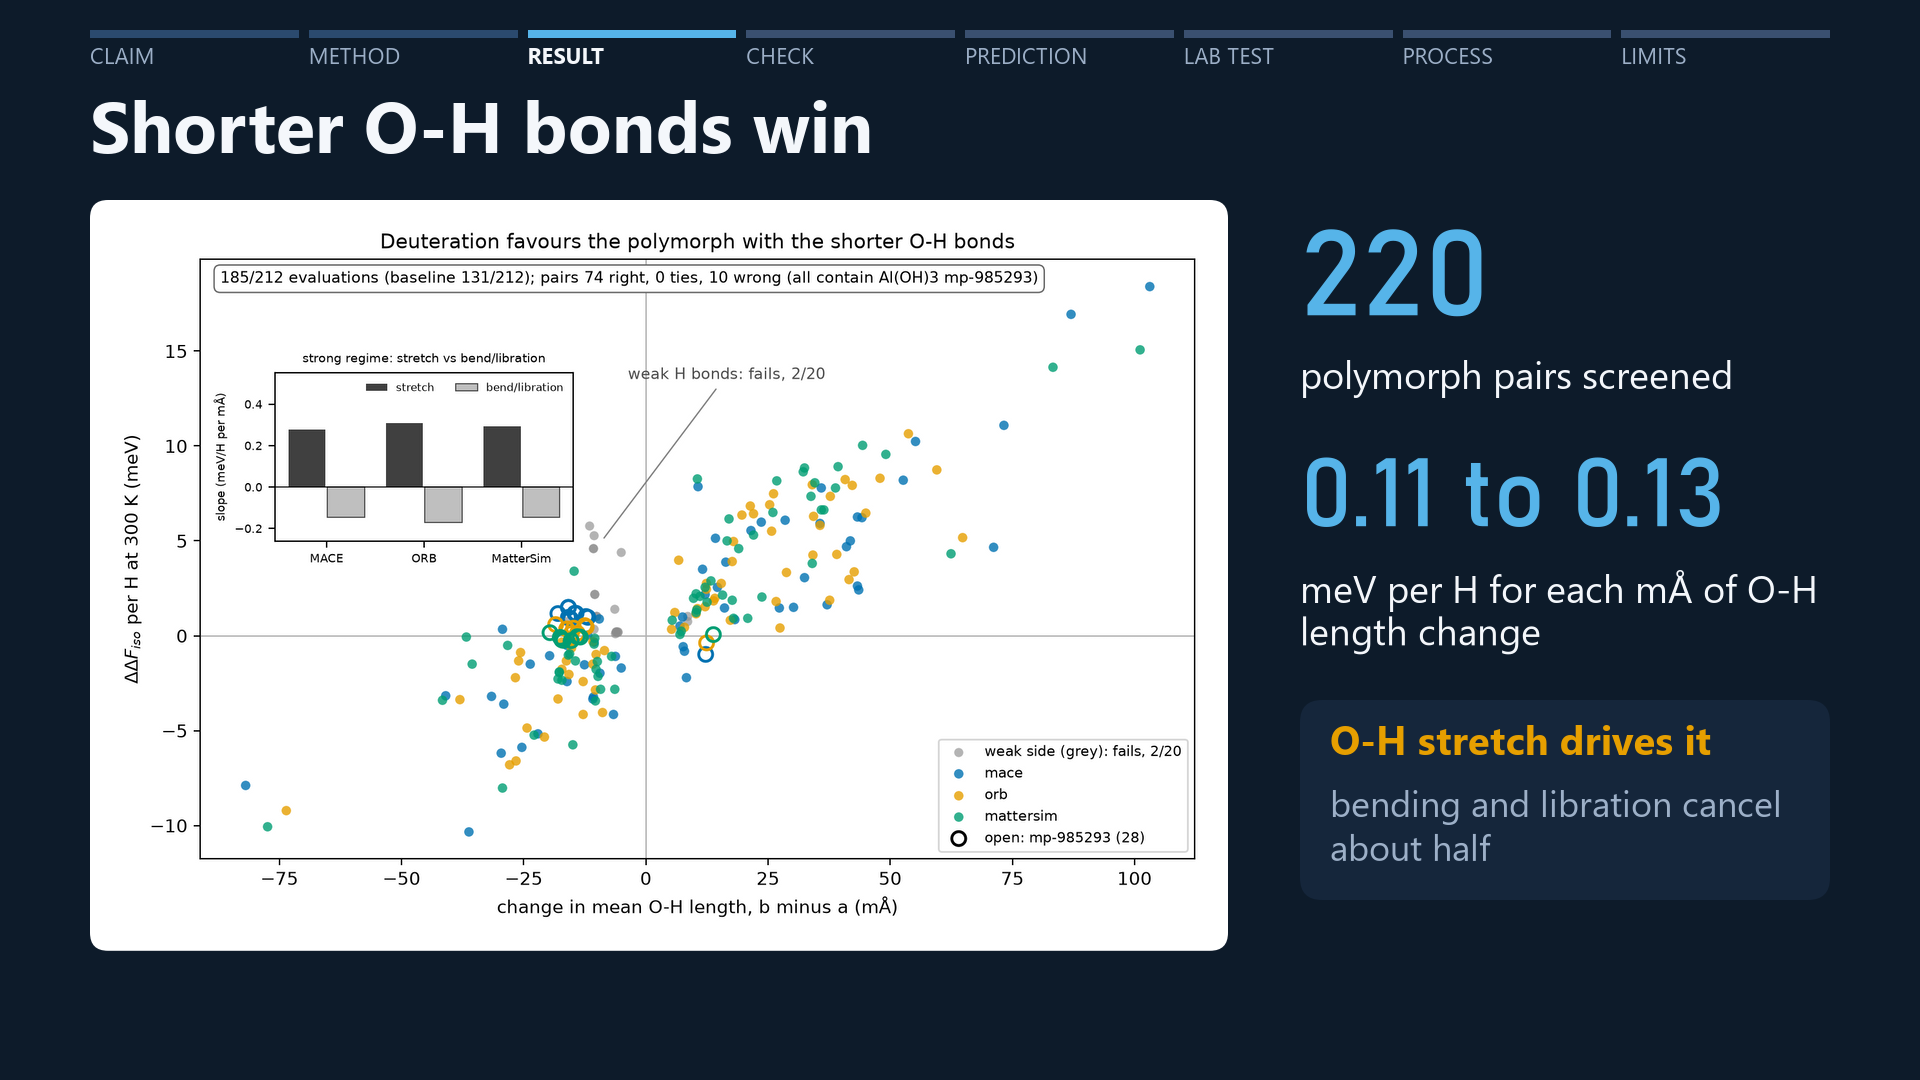
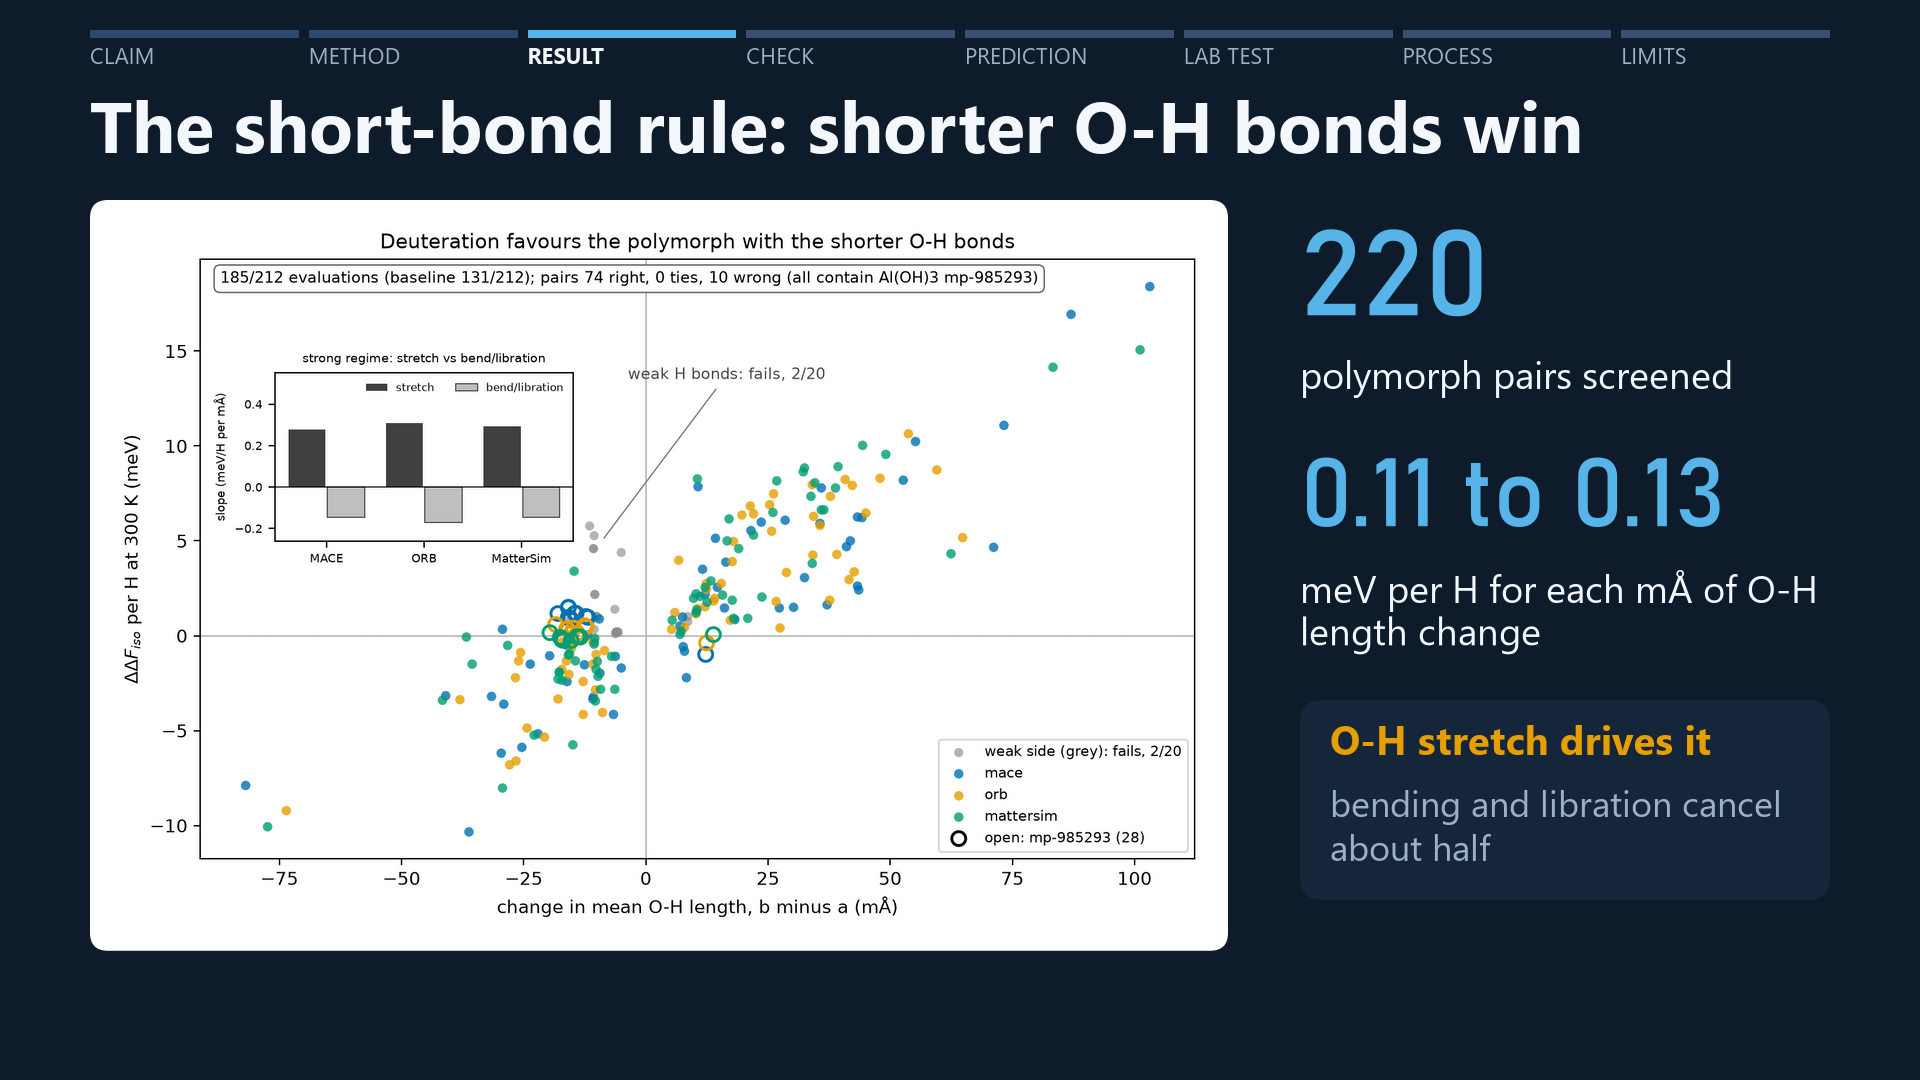
video v10: short-bond rule named on slides; build-up animations (count-ups, dots, bars, H to D swap, pressure arrows); slow push-in, crossfades, synthesized music bed ducked under the narration

Changed region(s): [[0.0312, 0.0917, 0.8438, 0.1528]]

diff --git a/docs/story/video/make_slides_v3.py b/docs/story/video/make_slides_v3.py
@@ -25,6 +25,15 @@ BLUE, ORANGE, VERM, GREEN = "#56B4E9", "#E69F00", "#F26B3A", "#2FBF8F"
 SANS = ["Segoe UI", "Segoe UI Symbol", "DejaVu Sans"]
 NUM = ["Bahnschrift", "Segoe UI", "DejaVu Sans"]
 X0, XR = 90, 1830
+P = 1.0  # animation progress 0..1 for the slides that build up; 1 = final still
+FRAME = None  # (dir, index) while rendering animation frames
+ANIM_FRAMES = 36  # 1.2 s at 30 fps
+
+
+def ease(p):
+    return 1 - (1 - p) ** 3
+
+
 SECTIONS = ["Claim", "Method", "Result", "Check", "Prediction", "Lab test", "Process", "Limits"]
 
 
@@ -115,6 +124,11 @@ def dots(ax, x, y, n, n_hi, cols, d, gap, hi=BLUE, lo=VERM, hi_first=True):
 
 
 def save(fig, name):
+    if FRAME is not None:
+        d, k = FRAME
+        fig.savefig(d / f"f{k:03d}.png", dpi=DPI, facecolor=BG)
+        plt.close(fig)
+        return
     fig.savefig(OUT / name, dpi=DPI, facecolor=BG)
     plt.close(fig)
     img = mpimg.imread(OUT / name)
@@ -122,13 +136,13 @@ def save(fig, name):
     print("wrote", name)
 
 
-def bond(ax, x, y, length, label, sub, good):
+def bond(ax, x, y, length, label, sub, good, iso="D"):
     """O-H...O drawn to scale-ish: covalent O-H of `length` px, then a dashed H...O."""
     o1, h = x, x + length
     o2 = x + 360
     ax.plot([o1, h], [y, y], color=INK, lw=9, solid_capstyle="round", zorder=2)
     ax.plot([h, o2], [y, y], color=MUTED, lw=4, ls=(0, (3, 3)), zorder=1)
-    for cx, lab, col, r in ((o1, "O", VERM, 46), (o2, "O", VERM, 46), (h, "D", ORANGE, 34)):
+    for cx, lab, col, r in ((o1, "O", VERM, 46), (o2, "O", VERM, 46), (h, iso, ORANGE if iso == "D" else BLUE, 34)):
         ax.add_patch(Circle((cx, y), r, color=col, lw=0, zorder=3))
         text(ax, cx, y + 2, lab, 40, BG, "bold", ha="center", va="center", zorder=4)
     text(ax, x - 46, y + 80, label, 46, INK, "bold")
@@ -140,15 +154,17 @@ def bond(ax, x, y, length, label, sub, good):
 def slide_01():
     fig, ax = canvas(0)
     text(ax, X0, 105, "IsoShift", 150, INK, "bold")
-    text(ax, X0 + 4, 290, "Swap hydrogen for deuterium. Which crystal wins?", 44, MUTED)
+    chip(ax, X0, 292, "THE SHORT-BOND RULE", ORANGE, 34, fill=True)
     text(ax, X0, 380, "Deuteration favours the polymorph", 64, INK, "bold")
     text(ax, X0, 458, "with the shorter O-H bonds", 64, BLUE, "bold")
-    text(ax, X0 - 6, 560, "185/212", 210, BLUE, "bold", family=NUM)
+    E = ease(P)
+    text(ax, X0 - 6, 560, f"{round(185 * E)}/212", 210, BLUE, "bold", family=NUM)
     text(ax, X0, 800, "model evaluations agree, moderate-to-strong H bonds", 40, INK)
     text(ax, X0, 856, "Baseline (one fixed sign): 131/212", 40, MUTED)
     box(ax, 1360, 380, XR - 1360, 520, fc=PANEL)
-    bond(ax, 1430, 480, 105, "diaspore", "shorter O-H", True)
-    bond(ax, 1430, 720, 165, "δ-AlOOH", "longer O-H", False)
+    iso = "D" if E > 0.5 else "H"
+    bond(ax, 1430, 480, 105, "diaspore", "shorter O-H", E > 0.95, iso)
+    bond(ax, 1430, 720, 165, "δ-AlOOH", "longer O-H", False, iso)
     save(fig, "slide_01_title.png")
 
 
@@ -184,7 +200,7 @@ def slide_02():
 
 def slide_03():
     fig, ax = canvas(2)
-    title(ax, "Shorter O-H bonds win")
+    title(ax, "The short-bond rule: shorter O-H bonds win")
     image_card(ax, ROOT / "figures" / "fig_headline.png", X0 + 14, 214, 1110)
     x = 1300
     text(ax, x, 220, "220", 120, BLUE, "bold", family=NUM)
@@ -200,7 +216,8 @@ def slide_03():
 def slide_03b():
     fig, ax = canvas(2)
     title(ax, "The scoreboard")
-    text(ax, X0 - 6, 200, "185/212", 200, BLUE, "bold", family=NUM)
+    E = ease(P)
+    text(ax, X0 - 6, 200, f"{round(185 * E)}/212", 200, BLUE, "bold", family=NUM)
     text(ax, X0, 430, "model evaluations agree with the rule", 40, INK)
     text(ax, X0, 482, "where H bonds are moderate or strong", 40, MUTED)
     bw = 780
@@ -208,15 +225,15 @@ def slide_03b():
         yy = 585 + i * 120
         text(ax, X0, yy, lab, 34, INK)
         ax.add_patch(Rectangle((X0, yy + 50), bw, 34, color=FAINT, lw=0))
-        ax.add_patch(Rectangle((X0, yy + 50), bw * v / 212, 34, color=col, lw=0))
-        text(ax, X0 + bw * v / 212 + 16, yy + 42, str(v), 40, col, "bold", family=NUM)
+        ax.add_patch(Rectangle((X0, yy + 50), bw * v / 212 * E, 34, color=col, lw=0))
+        text(ax, X0 + bw * v / 212 * E + 16, yy + 42, str(round(v * E)), 40, col, "bold", family=NUM)
     x = 1060
     box(ax, x, 200, XR - x, 700, fc=PANEL)
     text(ax, x + 40, 230, "Counted per pair", 44, INK, "bold")
-    text(ax, x + 40, 300, "74 right", 56, BLUE, "bold", family=NUM)
-    text(ax, x + 330, 300, "10 wrong", 56, VERM, "bold", family=NUM)
+    text(ax, x + 40, 300, f"{round(74 * E)} right", 56, BLUE, "bold", family=NUM)
+    text(ax, x + 330, 300, f"{round(10 * E)} wrong", 56, VERM, "bold", family=NUM)
     text(ax, x + 640, 312, "0 ties", 40, MUTED, family=NUM)
-    dots(ax, x + 44, 400, 84, 74, 14, 38, 12)
+    dots(ax, x + 44, 400, round(84 * E), 74, 14, 38, 12)
     wrap(ax, x + 40, 760, "All 10 wrong pairs contain one Al(OH)₃ structure, mp-985293, "
          "where bending and libration outweigh the stretch.", 34, XR - x - 80, color=VERM)
     save(fig, "slide_03b_counts_zoom.png")
@@ -224,7 +241,7 @@ def slide_03b():
 
 def slide_03c():
     fig, ax = canvas(2)
-    title(ax, "Where the rule stops working")
+    title(ax, "Where the short-bond rule stops working")
     y0, x1, xb, x2 = 330, X0, 760, XR
     ax.add_patch(Rectangle((x1, y0), xb - x1, 300, color="#3A2420", lw=0))
     ax.add_patch(Rectangle((xb, y0), x2 - xb, 300, color="#14304A", lw=0))
@@ -233,7 +250,7 @@ def slide_03c():
     text(ax, x1 + 40, y0 + 30, "weak H bonds", 44, VERM, "bold")
     text(ax, x1 + 40, y0 + 100, "2/20", 130, VERM, "bold", family=NUM)
     text(ax, xb + 50, y0 + 30, "moderate to strong H bonds", 44, BLUE, "bold")
-    text(ax, xb + 50, y0 + 100, "185/212", 130, BLUE, "bold", family=NUM)
+    text(ax, xb + 50, y0 + 100, f"{round(185 * ease(P))}/212", 130, BLUE, "bold", family=NUM)
     arrow(ax, x1, y0 + 420, x2, y0 + 420, MUTED, 3, 26)
     text(ax, (x1 + x2) / 2, y0 + 440, "larger mean model O-H of the pair  →", 32, MUTED, ha="center")
     box(ax, X0, 840, XR - X0, 92, fc=BG, ec=ORANGE, lw=3, r=18)
@@ -254,8 +271,8 @@ def slide_04():
         yy = 360 + i * 120
         text(ax, x, yy, m, 36, INK)
         ax.add_patch(Rectangle((x, yy + 50), bw, 30, color=FAINT, lw=0))
-        ax.add_patch(Rectangle((x, yy + 50), bw * v, 30, color=GREEN, lw=0))
-        text(ax, x + bw + 20, yy + 38, f"{v:.2f}", 44, GREEN, "bold", family=NUM)
+        ax.add_patch(Rectangle((x, yy + 50), bw * v * ease(P), 30, color=GREEN, lw=0))
+        text(ax, x + bw + 20, yy + 38, f"{v * ease(P):.2f}", 44, GREEN, "bold", family=NUM)
     ax.plot([x + bw, x + bw], [345, 720], color=INK, lw=2, ls=(0, (4, 4)))
     text(ax, x + bw, 724, "1.00", 28, MUTED, ha="center")
     box(ax, x, 800, XR - x, 100, fc=BG, ec=ORANGE, lw=3, r=18)
@@ -283,9 +300,13 @@ def slide_05():
         text(ax, ax0 - 10, yy - 22, m, 36, INK, ha="right")
         ax.plot([ax0, ax1], [yy, yy], color=FAINT, lw=2)
         ax.add_patch(Circle((X(ph), yy), 16, color=BLUE, lw=0, zorder=3))
-        ax.add_patch(Circle((X(pd), yy), 16, color=ORANGE, lw=0, zorder=3))
-        arrow(ax, X(ph) + 18, yy, X(pd) - 18, yy, ORANGE, 4, 24)
-        text(ax, X(pd) + 30, yy - 26, dp, 44, ORANGE, "bold", family=NUM)
+        E = ease(P)
+        xd = X(ph) + (X(pd) - X(ph)) * E
+        ax.add_patch(Circle((xd, yy), 16, color=ORANGE, lw=0, zorder=3))
+        if xd - X(ph) > 40:
+            arrow(ax, X(ph) + 18, yy, xd - 18, yy, ORANGE, 4, 24)
+        if E > 0.85:
+            text(ax, X(pd) + 30, yy - 26, dp, 44, ORANGE, "bold", family=NUM)
     text(ax, ax0, 415, "●", 30, BLUE)
     text(ax, ax0 + 34, 412, "boundary with H", 30, BLUE)
     text(ax, ax0 + 330, 415, "●", 30, ORANGE)
@@ -406,7 +427,25 @@ def slide_08():
     save(fig, "slide_08_limits_repo.png")
 
 
+ANIMATED = {"slide_01_title": "slide_01", "slide_03b_counts_zoom": "slide_03b", "slide_03c_weak_side_zoom": "slide_03c",
+            "slide_04_stretch_check": "slide_04", "slide_05_alooh_card": "slide_05"}
+
+
+def render_animations():
+    """Frames 0..ANIM_FRAMES-1 for each animated slide into anim/<slide>/; build_video.py plays them first."""
+    global P, FRAME
+    for stem, fn in ANIMATED.items():
+        d = OUT / "anim" / stem
+        d.mkdir(parents=True, exist_ok=True)
+        for k in range(ANIM_FRAMES):
+            P, FRAME = k / (ANIM_FRAMES - 1), (d, k)
+            globals()[fn]()
+        print("animated", stem)
+    P, FRAME = 1.0, None
+
+
 if __name__ == "__main__":
     for f in (slide_01, slide_02, slide_03, slide_03b, slide_03c, slide_04, slide_05, slide_06,
               slide_07, slide_07c, slide_07b, slide_08):
         f()
+    render_animations()

diff --git a/docs/story/video/build_video.py b/docs/story/video/build_video.py
@@ -25,6 +25,8 @@ SLIDES = {"01": "slide_01_title", "02": "slide_02_method", "03": "slide_03_headl
 APP_SHOTS = ["01_f01_banner", "02_check_a_pair", "03_how_we_know"]
 LEAD, PAD_IN, PAD_OUT, GAP, HOLD = 0.4, 0.12, 0.25, 0.35, 1.8  # seconds
 EXTRA_HOLD = {"09": 5.0, "10": 4.0}  # silent reading time after short lines on dense slides
+XFADE, ZOOM = 0.45, 0.035  # crossfade seconds, push-in over one slide
+MUSIC = -12  # synthesized pad under the voice, dB (None for voice only)
 FPS = 30
 
 
@@ -142,37 +144,79 @@ def build(segs, files, words, tmp, out_mp4, srt_path, screen=None, face=None):
         f"loudnorm=I=-16:TP=-1.5:LRA=11:measured_I={j['input_i']}:measured_TP={j['input_tp']}:"
         f"measured_LRA={j['input_lra']}:measured_thresh={j['input_thresh']}:offset={j['target_offset']}:linear=true",
         "-ar", "48000", str(norm))
-    # video: one clip per segment, same size and rate, then concat
-    clips = []
+    if MUSIC:
+        tot = duration(norm)
+        tones = [(110.0, 0.20, 0.05), (164.81, 0.15, 0.07), (220.0, 0.12, 0.04), (261.63, 0.08, 0.06), (329.63, 0.07, 0.03)]
+        expr = "+".join(f"{a}*sin(2*PI*{f}*t)*(0.6+0.4*sin(2*PI*{r}*t+{k}))" for k, (f, a, r) in enumerate(tones))
+        mixed = tmp / f"mix_{out_mp4.stem}.wav"
+        run("ffmpeg", "-y", "-v", "error", "-i", str(norm), "-f", "lavfi", "-i", f"aevalsrc='{expr}':s=48000:d={tot:.3f}",
+            "-filter_complex",
+            f"[0]asplit=2[v][key];[1]lowpass=f=1600,aecho=0.8:0.6:180|360:0.3|0.2,volume={MUSIC}dB,"
+            f"afade=t=in:d=2.5,afade=t=out:st={max(tot - 4, 0):.3f}:d=4[m];"
+            f"[m][key]sidechaincompress=threshold=0.03:ratio=5:attack=30:release=500[md];"
+            f"[v][md]amix=inputs=2:normalize=0:duration=first,loudnorm=I=-16:TP=-1.5:LRA=11[out]",
+            "-map", "[out]", "-ar", "48000", str(mixed))
+        norm = mixed
+    # video: one clip per segment (slow push-in on slides), joined by crossfades that keep the narration timing
+    clips, n = [], len(video_parts)
     for i, (kind, src, d) in enumerate(video_parts):
+        dd = d + (XFADE if i < n - 1 else 0.0)  # each clip overlaps the next by XFADE
         c = tmp / f"v{out_mp4.stem}_{i:02d}.mp4"
         vf = f"scale=1920:1080:force_original_aspect_ratio=decrease,pad=1920:1080:(ow-iw)/2:(oh-ih)/2:white,fps={FPS},format=yuv420p"
         if kind == "img":
-            run("ffmpeg", "-y", "-v", "error", "-loop", "1", "-t", f"{d:.3f}", "-i", str(src), "-vf", vf,
-                "-c:v", "libx264", "-preset", "medium", "-crf", "16", "-tune", "stillimage", "-an", str(c))
+            anim = HERE / "anim" / Path(src).stem
+            nf = len(list(anim.glob("f*.png"))) if anim.is_dir() else 0
+            lead_hold = XFADE if i > 0 else 0.0  # let the crossfade finish before the slide starts building
+            a_len = lead_hold + nf / FPS
+            still = dd - a_len if nf and dd > a_len + 1.0 else dd
+            frames = int(round(still * FPS))
+            push = (f"scale=2880:1620,zoompan=z='1+{ZOOM}*on/{frames}':x='iw/2-(iw/zoom/2)':y='ih/2-(ih/zoom/2)'"
+                    f":d=1:s=1920x1080:fps={FPS},format=yuv420p")
+            cs = tmp / f"s{out_mp4.stem}_{i:02d}.mp4"
+            run("ffmpeg", "-y", "-v", "error", "-framerate", str(FPS), "-loop", "1", "-t", f"{still:.3f}", "-i", str(src),
+                "-vf", push, "-frames:v", str(frames), "-c:v", "libx264", "-preset", "medium", "-crf", "16", "-an", str(cs))
+            if still < dd:  # build-up frames first, then the slow push-in on the final still
+                ca = tmp / f"a{out_mp4.stem}_{i:02d}.mp4"
+                run("ffmpeg", "-y", "-v", "error", "-framerate", str(FPS), "-i", str(anim / "f%03d.png"), "-vf",
+                    f"tpad=start_mode=clone:start_duration={lead_hold:.3f},fps={FPS},format=yuv420p",
+                    "-c:v", "libx264", "-preset", "medium", "-crf", "16", "-an", str(ca))
+                lst2 = tmp / f"c{out_mp4.stem}_{i:02d}.txt"
+                lst2.write_text(f"file '{ca.as_posix()}'" + chr(10) + f"file '{cs.as_posix()}'" + chr(10), encoding="utf-8")
+                run("ffmpeg", "-y", "-v", "error", "-f", "concat", "-safe", "0", "-i", str(lst2), "-c", "copy", str(c))
+            else:
+                cs.replace(c)
         elif kind == "screen" and src:
             sd = duration(src)
             speed = f"setpts={d / sd:.5f}*PTS," if sd < d else ""
-            run("ffmpeg", "-y", "-v", "error", "-i", str(src), "-t", f"{d:.3f}", "-vf", speed + vf,
+            run("ffmpeg", "-y", "-v", "error", "-i", str(src), "-vf",
+                speed + vf + f",tpad=stop_mode=clone:stop_duration={XFADE + 1}", "-t", f"{dd:.3f}",
                 "-c:v", "libx264", "-preset", "medium", "-crf", "18", "-an", str(c))
         elif kind == "screen":
             shots = tmp / "shots.txt"
-            per = d / len(APP_SHOTS)
-            shots.write_text("".join(f"file '{(REPO / 'docs' / 'screenshots' / (s + '.png')).as_posix()}'\nduration {per:.3f}\n"
-                                     for s in APP_SHOTS) + f"file '{(REPO / 'docs' / 'screenshots' / (APP_SHOTS[-1] + '.png')).as_posix()}'\n",
+            per = dd / len(APP_SHOTS)
+            shots.write_text("".join(f"file '{(REPO / 'docs' / 'screenshots' / (s + '.png')).as_posix()}'" + chr(10) + f"duration {per:.3f}" + chr(10)
+                                     for s in APP_SHOTS) + f"file '{(REPO / 'docs' / 'screenshots' / (APP_SHOTS[-1] + '.png')).as_posix()}'" + chr(10),
                              encoding="utf-8")
-            run("ffmpeg", "-y", "-v", "error", "-f", "concat", "-safe", "0", "-i", str(shots), "-t", f"{d:.3f}", "-vf", vf,
+            run("ffmpeg", "-y", "-v", "error", "-f", "concat", "-safe", "0", "-i", str(shots), "-t", f"{dd:.3f}", "-vf", vf,
                 "-c:v", "libx264", "-preset", "medium", "-crf", "16", "-an", str(c))
         else:  # face clip, video only (the intro audio comes from segment 00)
-            run("ffmpeg", "-y", "-v", "error", "-i", str(src), "-t", f"{d:.3f}", "-vf",
+            run("ffmpeg", "-y", "-v", "error", "-i", str(src), "-vf",
                 "scale=1920:1080:force_original_aspect_ratio=increase,crop=1920:1080," + f"fps={FPS},format=yuv420p,tpad=stop_mode=clone:stop_duration=10",
-                "-t", f"{d:.3f}", "-c:v", "libx264", "-preset", "medium", "-crf", "18", "-an", str(c))
+                "-t", f"{dd:.3f}", "-c:v", "libx264", "-preset", "medium", "-crf", "18", "-an", str(c))
         clips.append(c)
-    vl = tmp / f"vlist_{out_mp4.stem}.txt"
-    vl.write_text("".join(f"file '{p.as_posix()}'\n" for p in clips), encoding="utf-8")
-    run("ffmpeg", "-y", "-v", "error", "-f", "concat", "-safe", "0", "-i", str(vl), "-i", str(norm),
-        "-map", "0:v", "-map", "1:a", "-c:v", "copy", "-c:a", "aac", "-b:a", "192k", "-shortest",
-        "-movflags", "+faststart", str(out_mp4))
+    inputs, chain, prev, off = [], [], "[0:v]", 0.0
+    for c in clips:
+        inputs += ["-i", str(c)]
+    for i in range(1, n):
+        off += video_parts[i - 1][2]
+        out = f"[x{i}]"
+        chain.append(f"{prev}[{i}:v]xfade=transition=fade:duration={XFADE}:offset={off:.3f}{out}")
+        prev = out
+    total = sum(p[2] for p in video_parts)
+    chain.append(f"{prev}fade=t=in:st=0:d=0.6,fade=t=out:st={total - 0.9:.3f}:d=0.9,format=yuv420p[vout]")
+    run("ffmpeg", "-y", "-v", "error", *inputs, "-i", str(norm), "-filter_complex", ";".join(chain),
+        "-map", "[vout]", "-map", f"{n}:a", "-c:v", "libx264", "-preset", "medium", "-crf", "18",
+        "-c:a", "aac", "-b:a", "192k", "-shortest", "-movflags", "+faststart", str(out_mp4))
     write_srt(srt_path, cues)
     return t
 
